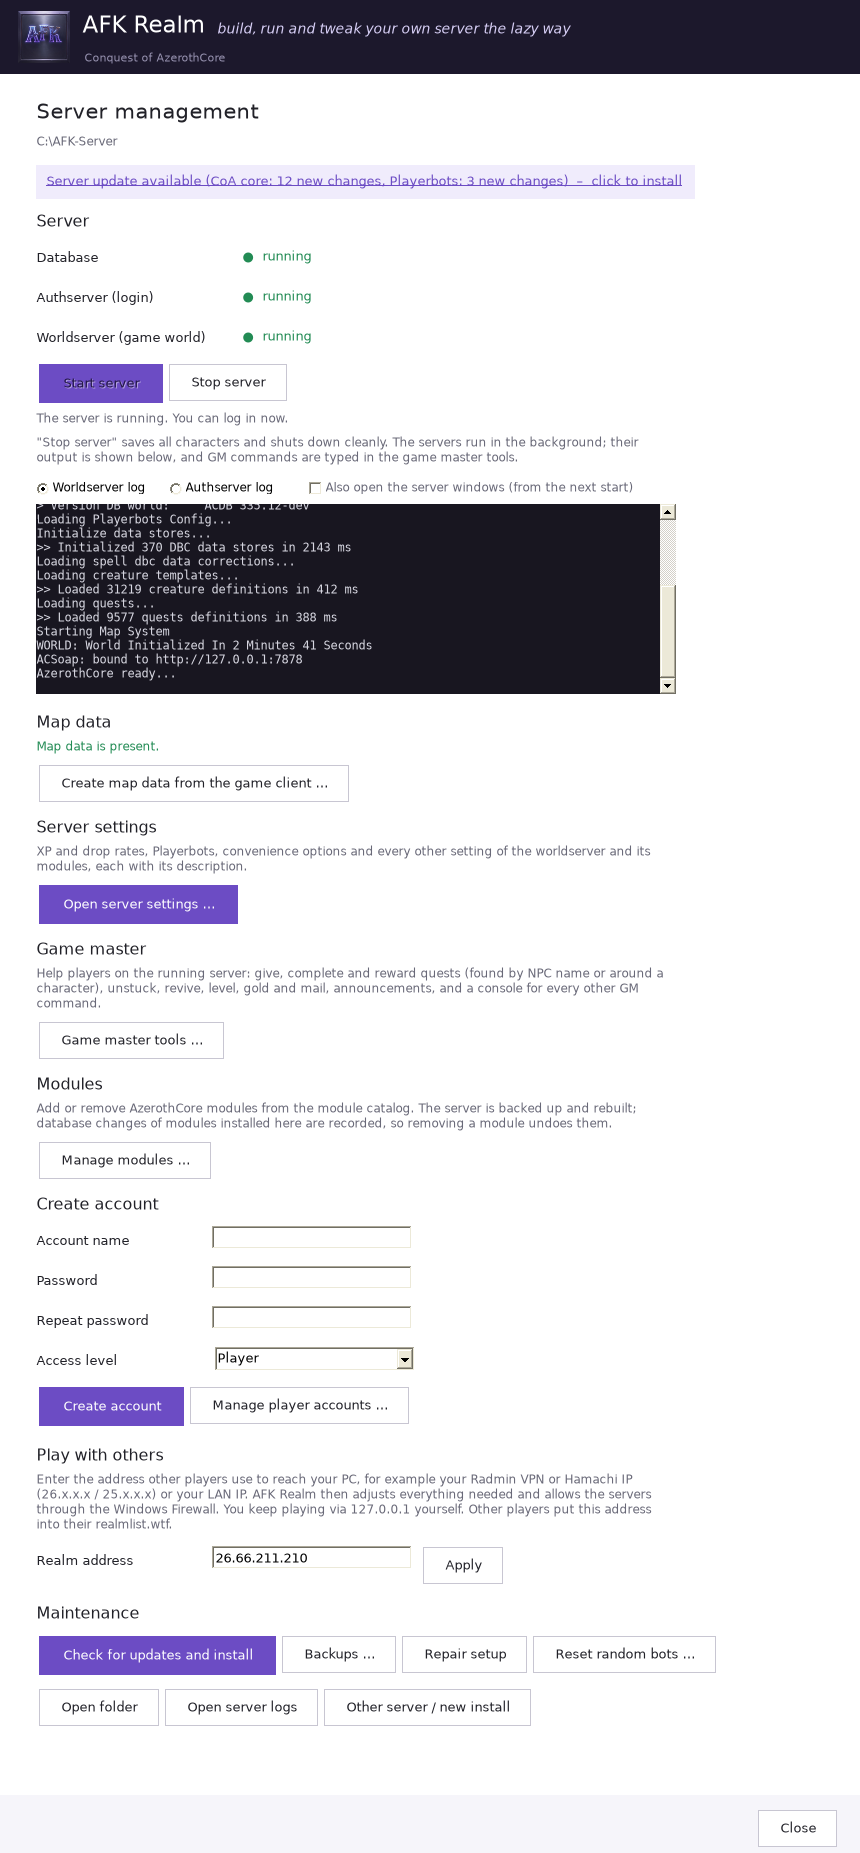
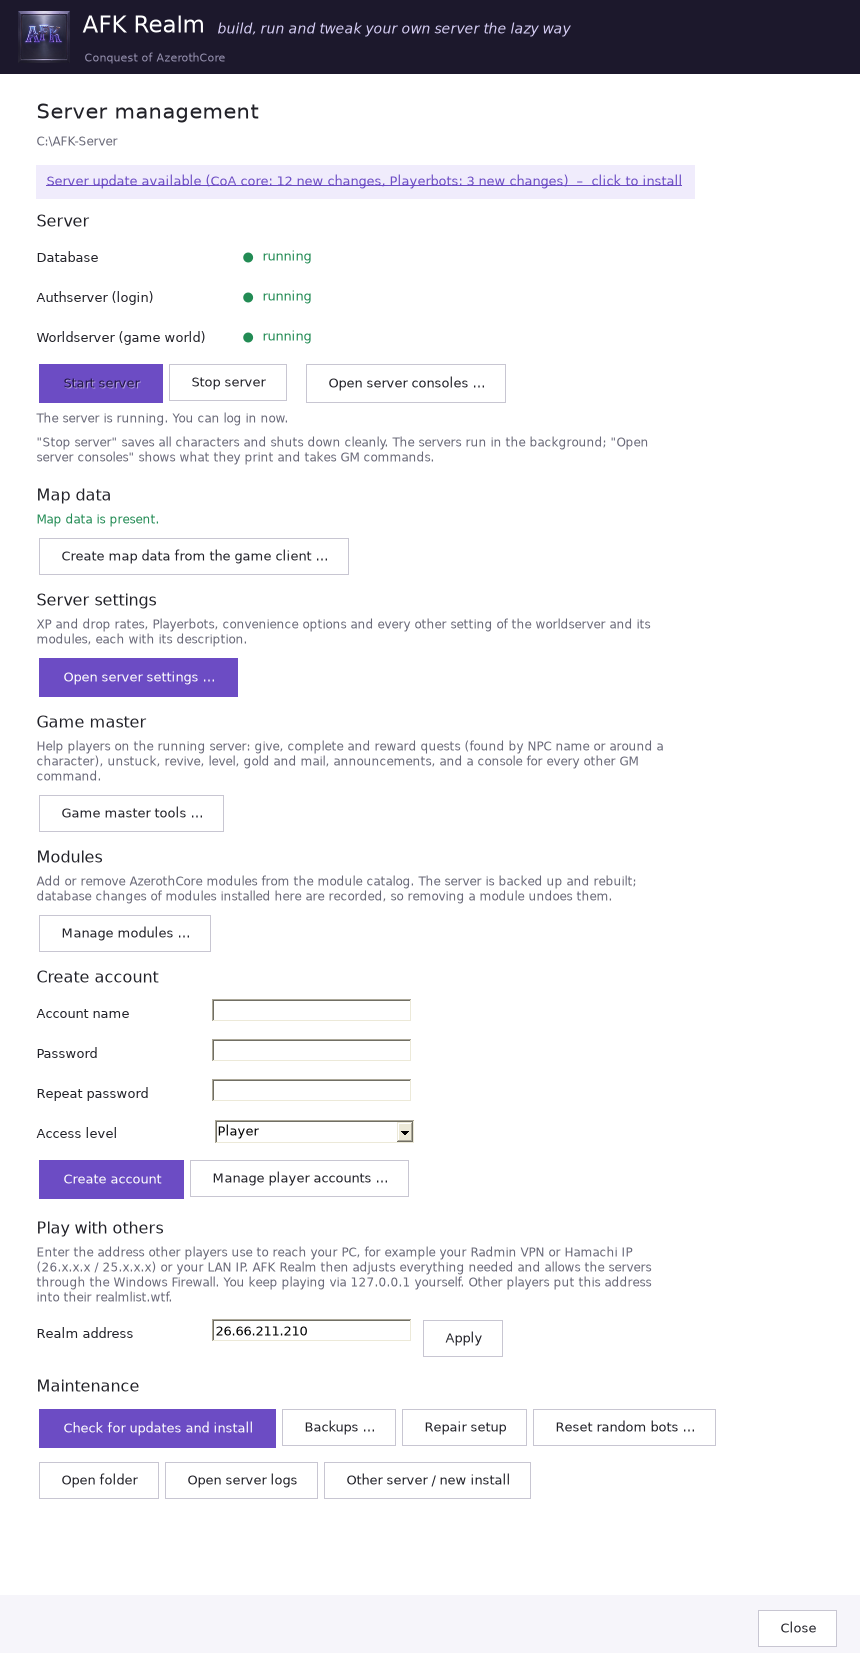
Server consoles window instead of the log on the main page
"Open server consoles" shows worldserver and authserver one above the
other. The worldserver's console has a command line that sends GM commands
through the game master connection and prints the answer.

Changed region(s): [[0.0, 0.0, 1.0, 0.9256], [0.907, 0.9564, 0.9674, 1.0]]

diff --git a/src/ConsolesDialog.cs b/src/ConsolesDialog.cs
@@ -1,0 +1,87 @@
+using System;
+using System.Collections.Generic;
+using System.Drawing;
+using System.IO;
+using System.Windows.Forms;
+
+namespace CoAInstaller
+{
+    /// <summary>
+    /// Both server consoles in one window, worldserver above authserver: each shows what the server
+    /// prints (its log file, read as it grows). The worldserver's has a command line that sends GM
+    /// commands through <see cref="AdminLink"/> and prints the answer; the authserver takes no commands.
+    /// </summary>
+    class ConsolesDialog : Form
+    {
+        readonly Install inst;
+        readonly ServerControl ctl;
+        readonly LogView world = new LogView { Dock = DockStyle.Fill }, auth = new LogView { Dock = DockStyle.Fill };
+        readonly TextBox input = new TextBox { Font = Ui.Mono, Dock = DockStyle.Fill };
+        readonly List<string> history = new List<string>();
+        int historyAt;
+        bool busy;
+
+        public ConsolesDialog(Install i, ServerControl c)
+        {
+            inst = i; ctl = c;
+            Text = Product.Name + " – Server consoles"; Font = Ui.Base; BackColor = Color.White; ShowIcon = false;
+            StartPosition = FormStartPosition.CenterScreen; ClientSize = new Size(980, 740); MinimumSize = new Size(640, 480);
+
+            var send = Ui.Secondary("Send"); send.Dock = DockStyle.Right; send.Width = 80; send.AutoSize = false; send.Padding = new Padding(0); send.Font = Ui.Small;
+            var prompt = new Label { Text = "AC>", Dock = DockStyle.Left, Width = 36, Font = Ui.Mono, TextAlign = ContentAlignment.MiddleLeft };
+            var inputRow = new Panel { Dock = DockStyle.Bottom, Height = 32, Padding = new Padding(0, 6, 0, 0) };
+            inputRow.Controls.Add(input); inputRow.Controls.Add(prompt); inputRow.Controls.Add(send);
+
+            var split = new SplitContainer { Dock = DockStyle.Fill, Orientation = Orientation.Horizontal, SplitterWidth = 8, BackColor = Color.White };
+            split.Panel1.Padding = new Padding(16, 10, 16, 4); split.Panel2.Padding = new Padding(16, 4, 16, 8);
+            split.Panel1.Controls.Add(world); split.Panel1.Controls.Add(inputRow);
+            split.Panel1.Controls.Add(new Label { Text = "Worldserver (game world)", Dock = DockStyle.Top, Height = 24, Font = Ui.Bold });
+            split.Panel2.Controls.Add(auth);
+            split.Panel2.Controls.Add(new Label { Text = "The authserver takes no commands.", Dock = DockStyle.Bottom, Height = 22, Font = Ui.Small, ForeColor = Ui.Muted, TextAlign = ContentAlignment.MiddleLeft });
+            split.Panel2.Controls.Add(new Label { Text = "Authserver (login)", Dock = DockStyle.Top, Height = 24, Font = Ui.Bold });
+
+            var windows = new CheckBox { Text = "Also open the classic server windows at the next server start", AutoSize = true, Font = Ui.Small, ForeColor = Ui.Muted,
+                Checked = Settings.ShowServerWindows, Margin = new Padding(0, 10, 20, 0) };
+            windows.CheckedChanged += (s, e) => Settings.ShowServerWindows = windows.Checked;
+            var bottom = new FlowLayoutPanel { Dock = DockStyle.Bottom, Height = 58, Padding = new Padding(14, 10, 14, 10), FlowDirection = FlowDirection.RightToLeft, BackColor = Ui.Panel, WrapContents = false };
+            var close = Ui.Secondary("Close"); close.Click += (s, e) => Close();
+            bottom.Controls.Add(close); bottom.Controls.Add(windows);
+
+            Controls.Add(split); Controls.Add(bottom);
+
+            send.Click += (s, e) => Send();
+            input.KeyDown += (s, e) =>
+            {
+                if (e.KeyCode == Keys.Enter) { e.SuppressKeyPress = true; Send(); }
+                else if (e.KeyCode == Keys.Up && history.Count > 0) { historyAt = Math.Max(0, historyAt - 1); input.Text = history[historyAt]; input.SelectionStart = input.TextLength; e.SuppressKeyPress = true; }
+                else if (e.KeyCode == Keys.Down && history.Count > 0) { historyAt = Math.Min(history.Count, historyAt + 1); input.Text = historyAt < history.Count ? history[historyAt] : ""; input.SelectionStart = input.TextLength; e.SuppressKeyPress = true; }
+            };
+            Shown += (s, e) =>
+            {
+                split.SplitterDistance = (int)(split.Height * 0.66);
+                world.Watch(Path.Combine(inst.ServerDir, "Server.log"));
+                auth.Watch(Path.Combine(inst.ServerDir, "Auth.log"));
+                input.Focus();
+            };
+        }
+
+        void Send()
+        {
+            string command = input.Text.Trim();
+            if (command.Length == 0 || busy) return;
+            history.Remove(command); history.Add(command); historyAt = history.Count;
+            input.Text = "";
+            world.Print("AC> " + command);
+            string problem = AdminLink.Problem(inst, ctl);
+            if (problem != null) { world.Print("! " + problem); return; }
+            busy = true;
+            System.Threading.ThreadPool.QueueUserWorkItem(_ =>
+            {
+                string answer;
+                try { answer = AdminLink.Run(inst, command); if (answer.Length == 0) answer = "(done)"; }
+                catch (Exception ex) { answer = "! " + ex.Message; }
+                try { BeginInvoke((Action)(() => { busy = false; world.Print(answer); })); } catch { }
+            });
+        }
+    }
+}

diff --git a/src/ManagerPage.cs b/src/ManagerPage.cs
@@ -36,11 +36,8 @@ namespace CoAInstaller
             return p;
         }
         readonly System.Windows.Forms.Timer poll = new System.Windows.Forms.Timer { Interval = 2000 };
-        readonly LogView serverLog = new LogView { Width = 640, Height = 190, Margin = new Padding(0, 2, 0, 6) };
-        readonly RadioButton logWorld = new RadioButton { Text = "Worldserver log", AutoSize = true, Checked = true, Font = Ui.Small, Margin = new Padding(0, 2, 12, 0) };
-        readonly RadioButton logAuth = new RadioButton { Text = "Authserver log", AutoSize = true, Font = Ui.Small, Margin = new Padding(0, 2, 24, 0) };
-        readonly CheckBox showWindows = new CheckBox { Text = "Also open the server windows (from the next start)", AutoSize = true, Font = Ui.Small, ForeColor = Ui.Muted, Margin = new Padding(0, 2, 0, 0) };
-        void WatchLog() { serverLog.Watch(Path.Combine(inst.ServerDir, logWorld.Checked ? "Server.log" : "Auth.log")); }
+        readonly Button consoles = Ui.Secondary("Open server consoles …");
+        ConsolesDialog consolesWindow;
 
         static Label State() { return new Label { AutoSize = true, Font = Ui.Bold, Margin = new Padding(0, 6, 0, 2) }; }
 
@@ -60,18 +57,18 @@ namespace CoAInstaller
             Body.Controls.Add(StatusRow("Database", dbState));
             Body.Controls.Add(StatusRow("Authserver (login)", authState));
             Body.Controls.Add(StatusRow("Worldserver (game world)", worldState));
-            var buttons = Ui.Row(); buttons.Controls.Add(start); buttons.Controls.Add(stop);
+            var buttons = Ui.Row(); buttons.Controls.Add(start); buttons.Controls.Add(stop); buttons.Controls.Add(consoles);
+            consoles.Padding = new Padding(12, 6, 12, 6); consoles.Margin = new Padding(16, 3, 3, 3);
+            // Not modal: it can stay open next to the server management, for example while the server starts.
+            consoles.Click += (s, e) =>
+            {
+                if (consolesWindow == null || consolesWindow.IsDisposed) { consolesWindow = new ConsolesDialog(inst, ctl); consolesWindow.Show(FindForm()); }
+                else { consolesWindow.WindowState = FormWindowState.Normal; consolesWindow.Activate(); }
+            };
             Body.Controls.Add(buttons);
             Body.Controls.Add(busy);
             Body.Controls.Add(Ui.Hint("\"Stop server\" saves all characters and shuts down cleanly. The servers run in the background; " +
-                "their output is shown below, and GM commands are typed in the game master tools."));
-            var logRow = Ui.Row();
-            logRow.Controls.Add(logWorld); logRow.Controls.Add(logAuth); logRow.Controls.Add(showWindows);
-            Body.Controls.Add(logRow);
-            Body.Controls.Add(serverLog);
-            logWorld.CheckedChanged += (s, e) => WatchLog();
-            showWindows.Checked = Settings.ShowServerWindows;
-            showWindows.CheckedChanged += (s, e) => Settings.ShowServerWindows = showWindows.Checked;
+                "\"Open server consoles\" shows what they print and takes GM commands."));
             start.Click += (s, e) => StartServer();
             stop.Click += (s, e) => StopServer();
 
@@ -182,11 +179,15 @@ namespace CoAInstaller
         {
             Settings.LastInstall = inst.Root;
             RefreshStatus(); poll.Start();
-            WatchLog();
             LoadRealm();
             CheckForUpdates();
         }
-        protected override void Dispose(bool disposing) { poll.Stop(); base.Dispose(disposing); }
+        protected override void Dispose(bool disposing)
+        {
+            poll.Stop();
+            if (disposing && consolesWindow != null && !consolesWindow.IsDisposed) consolesWindow.Close();
+            base.Dispose(disposing);
+        }
 
         /// <summary>Asks GitHub in the background whether newer server code or a newer AFK Realm exists.</summary>
         void CheckForUpdates()

diff --git a/src/LogView.cs b/src/LogView.cs
@@ -38,6 +38,8 @@ namespace CoAInstaller
             timer.Start();
         }
         public void Pause() { timer.Stop(); }
+        /// <summary>Adds lines of our own between the log lines, for example a command and its answer.</summary>
+        public void Print(string text) { Read(); Append(text.TrimEnd('\r', '\n') + "\n"); }
         protected override void Dispose(bool disposing) { if (disposing) timer.Dispose(); base.Dispose(disposing); }
 
         void Read()

diff --git a/docs/MANUAL.md b/docs/MANUAL.md
@@ -64,11 +64,18 @@ The top of the **Server management** shows the three parts of the server:
 - **Start server** starts all three in the right order. The worldserver needs a few minutes to load; you can keep using AFK Realm meanwhile. When it says *The server is running. You can log in now.*, it is ready.
 - **Stop server** saves all characters and shuts everything down cleanly. Always stop the server this way.
 
-The servers run in the background without windows of their own. The dark box below the buttons shows what they print: choose **Worldserver log** or **Authserver log**. While the worldserver loads, you can follow its progress there. GM commands are typed in the console of the [game master tools](#6-game-master-tools).
+The servers run in the background without windows of their own. **Open server consoles …** shows both in one window:
 
-You can close AFK Realm while the server runs; the server keeps running, and the log is shown again when you open AFK Realm.
+![Server consoles](screenshots/17-server-consoles.png)
 
-If you prefer the classic console windows, tick **Also open the server windows**; it applies from the next server start.
+- The upper part is the **worldserver**: everything it prints, for example its progress while loading. In the line below it you type GM commands, with or without the leading dot; the answer appears in the console. The arrow keys bring back earlier commands.
+- The lower part is the **authserver**. It only reports logins and takes no commands.
+
+The window can stay open next to the server management. Closing it, or closing AFK Realm, does not stop the servers; they keep running, and the consoles show their output again when you open them.
+
+Commands are sent through the same connection as the [game master tools](#6-game-master-tools) use, so they work once the server was started through AFK Realm and has finished loading.
+
+If you prefer the classic console windows, tick **Also open the classic server windows** at the bottom of the window; it applies from the next server start.
 
 If the worldserver closes while starting, AFK Realm shows the last lines of its log, which usually name the reason.
 

diff --git a/README.md b/README.md
@@ -30,7 +30,7 @@ Pre-built repacks go stale quickly. Building from source keeps you on the latest
 - **Always current**: every installation builds the newest CoA core and Playerbots
 - **Clear progress**: every step, download percentages, compiled files and imported world tables, plus an optional live log
 - **Databases ready before the first start**: imports the CoA world package, creates the auth and character databases and applies all SQL updates, and repairs databases whose setup was interrupted
-- **Server management**: start and stop (clean shutdown that saves all characters), live status, the servers' output shown right in the window instead of in separate console windows, and the reason shown right away if a server closes while starting
+- **Server management**: start and stop (clean shutdown that saves all characters), live status, both server consoles in one window (output of worldserver and authserver, with a command line for GM commands) instead of separate console windows, and the reason shown right away if a server closes while starting
 - **Server settings**: a list of popular options (XP, drop and reputation rates, flight paths, cross-faction play, Playerbots count and levels) plus every option of the worldserver and all module configs, searchable, with the description from each template and one-click reset to the default
 - **Accounts**: create accounts with GM levels, list all player accounts (bot accounts are filtered out) with their characters, delete accounts, set new passwords and change access levels
 - **Account transfer**: export an account with all its characters, items, mail and pets to an `.afkaccount` file and import it on another server – ids are renumbered, taken names are renamed at the next login

diff --git a/RELEASE_NOTES.md b/RELEASE_NOTES.md
@@ -8,7 +8,7 @@ Build, run and tweak your own Conquest of Azeroth server (AzerothCore fork with 
 - **Quest helper**: type an NPC name, a quest title or a quest id and see the matching quests with who gives them and who takes them – read from your server's own database, so it fits CoA's changed world. Or let AFK Realm list the open quests around a character. Then *Give quest*, *Complete*, *Reward*, *Remove* or *Check* with one click, also for characters that are offline. Handy when a quest giver cannot be clicked or a quest item does not drop.
 - **Player actions**: unstuck (to the inn), revive, kick, set level, send gold or a mail, and an announcement to everyone.
 - **Server console**: every other GM command can be typed right in the window; the server's answer is shown below.
-- **No more console windows**: authserver and worldserver now run in the background. What they print is shown in the server management (*Worldserver log* / *Authserver log*), and commands are typed in the game master console. The classic windows can be switched back on with one tick.
+- **No more console windows**: authserver and worldserver now run in the background. *Open server consoles* shows both in one window, one above the other: what they print, and a command line for GM commands to the worldserver. The classic windows can be switched back on with one tick.
 - **User guide**: [docs/MANUAL.md](docs/MANUAL.md) explains every window – what it is for and how to use it.
 - **Fix**: the installation no longer stops at *Prepare the build (CMake)* with "the version field is not 4 integer components" on PCs that have more than one Visual Studio 2022 installation (for example one left over from an earlier attempt in another folder).
 

diff --git a/CHANGELOG.md b/CHANGELOG.md
@@ -6,7 +6,7 @@
 - Quest helper: find quests by NPC name, quest title or id, or list the open quests around a character; give, complete, reward, remove and check them with one click, for offline characters too
 - Player actions: unstuck, revive, kick, set level, send gold and mail, server-wide announcement
 - Server console in the window for every other GM command, with the server's answer
-- Authserver and worldserver run without console windows; their output is shown in the server management (the windows can be switched back on)
+- Authserver and worldserver run without console windows; "Open server consoles" shows both in one window, with a command line for the worldserver (the classic windows can be switched back on)
 - User guide (docs/MANUAL.md) that explains every window
 - Fix: the build stopped at "Prepare the build (CMake)" with "the version field is not 4 integer components" on PCs with more than one Visual Studio 2022 installation
 
